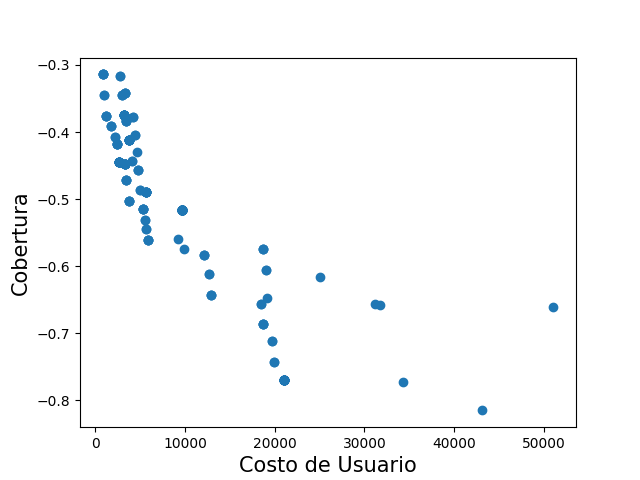
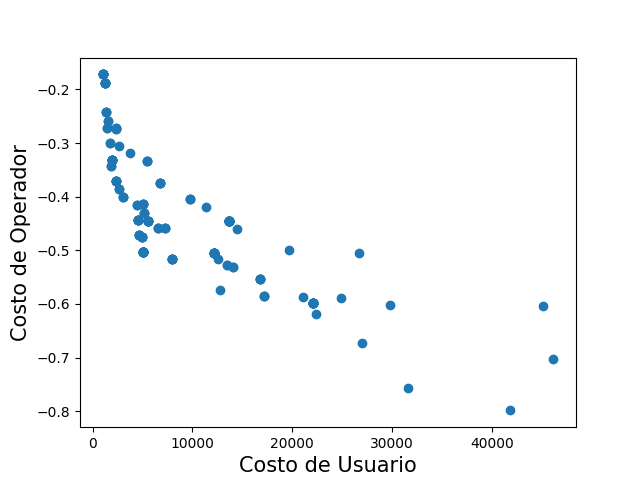
wip 2

diff --git a/nsga2.py b/nsga2.py
@@ -20,6 +20,7 @@ class NSGAII:
 
     def explore(self, visited, node, node_from, route, max_length):
         if node not in visited:
+            visited.append(node)
             cand_nodes = []
             for x in self.graph.nodes[node]:
                 if x.to != node_from and x.to not in visited:
@@ -218,13 +219,16 @@ class NSGAII:
             for front in self.population.fronts:
                 self.calculate_crowding_distance(front)
             children = self.create_children(self.population)
-            """
+
+            obj_1 = 0
+            obj_2 = 0
             for routeset in returned_population.fronts[0]:
-                print("part:")
-                for route in routeset.routes:
-                    for a in route:
-                        print("{} - ".format(a), end="")
-                    print("")
-            """
+                obj_1 += routeset.objectives[0]
+                obj_2 += routeset.objectives[1]
+
+            print("Promedio F1 en Generacion {}: {}".format(_ + 1, obj_1 / len(returned_population.fronts[0])))
+            print("Promedio F2 en Generacion {}: {}".format(_ + 1, obj_2 / len(returned_population.fronts[1])))
+
+
         return returned_population.fronts[0]
             

diff --git a/TNDP.py b/TNDP.py
@@ -14,13 +14,18 @@ class Graph:
     def add_edge(self, a, b, value):
         self.nodes[a].append(Edge(value, b))
 
+    def get_edge(self, a, b):
+        for edge in self.nodes[a]:
+            if edge.to == b:
+                return edge
+        return None
+
 class TNDP:
     def __init__(self, size):
         self.size = size
         self.network = Graph(self.size)
         self.demand_matrix = []
         for i in range(size):
-            self.network.nodes.append([])
             self.demand_matrix.append([])
             for _ in range(size):
                 self.demand_matrix[i].append(0)
@@ -31,6 +36,14 @@ class TNDP:
             reader = csv.DictReader(csvfile)
             for row in reader:
                 self.network.add_edge(int(row["from"]) - 1, int(row["to"]) - 1, int(row["travel_time"]))
+
+        for i in range(len(self.network.nodes)):
+            print("{} -> ".format(i), end="")
+            for edge in self.network.nodes[i]:
+                print(edge.to, end=" ")
+            print("")
+
+
 
     def read_demand_matrix_from_file(self, filename):
         self.total_demand  = 0

diff --git a/routeset.py b/routeset.py
@@ -44,6 +44,16 @@ class RouteSet:
                 for j in range(i + 1, len(route)):
                     coverage += demand_matrix[i][j]
         return coverage / total_demand * -1
+    
+
+    def find_operator_cost(self, graph, demand_matrix):
+        cost_sum = 0
+        for route in self.routes:
+            #print(len(route))
+            for i in range(len(route) - 1):
+                #print("{} {}".format(route[i], route[i + 1]))
+                cost_sum += graph.get_edge(route[i], route[i + 1]).value
+        return cost_sum * -1
 
     def calculate_objectives(self, graph, demand_matrix):
         self.objectives = [self.user_cost(graph, demand_matrix), self.find_coverage(graph, demand_matrix)]

diff --git a/modern_mandl.py b/modern_mandl.py
@@ -35,11 +35,11 @@ def main():
     avg_coverage = sum(g_coverage) / len(g_coverage)
 
     print("Costo de Usuario promedio: {}".format(avg_user_cost))
-    print("Cobertura promedio: {}".format(avg_coverage))
+    print("Costo de Operador promedio: {}".format(avg_coverage))
 
 
     plt.xlabel('Costo de Usuario', fontsize=15)
-    plt.ylabel('Cobertura', fontsize=15)
+    plt.ylabel('Costo de Operador', fontsize=15)
     plt.scatter(g_user_cost, g_coverage)
     plt.savefig('modern_mandl.png')
     plt.show()
